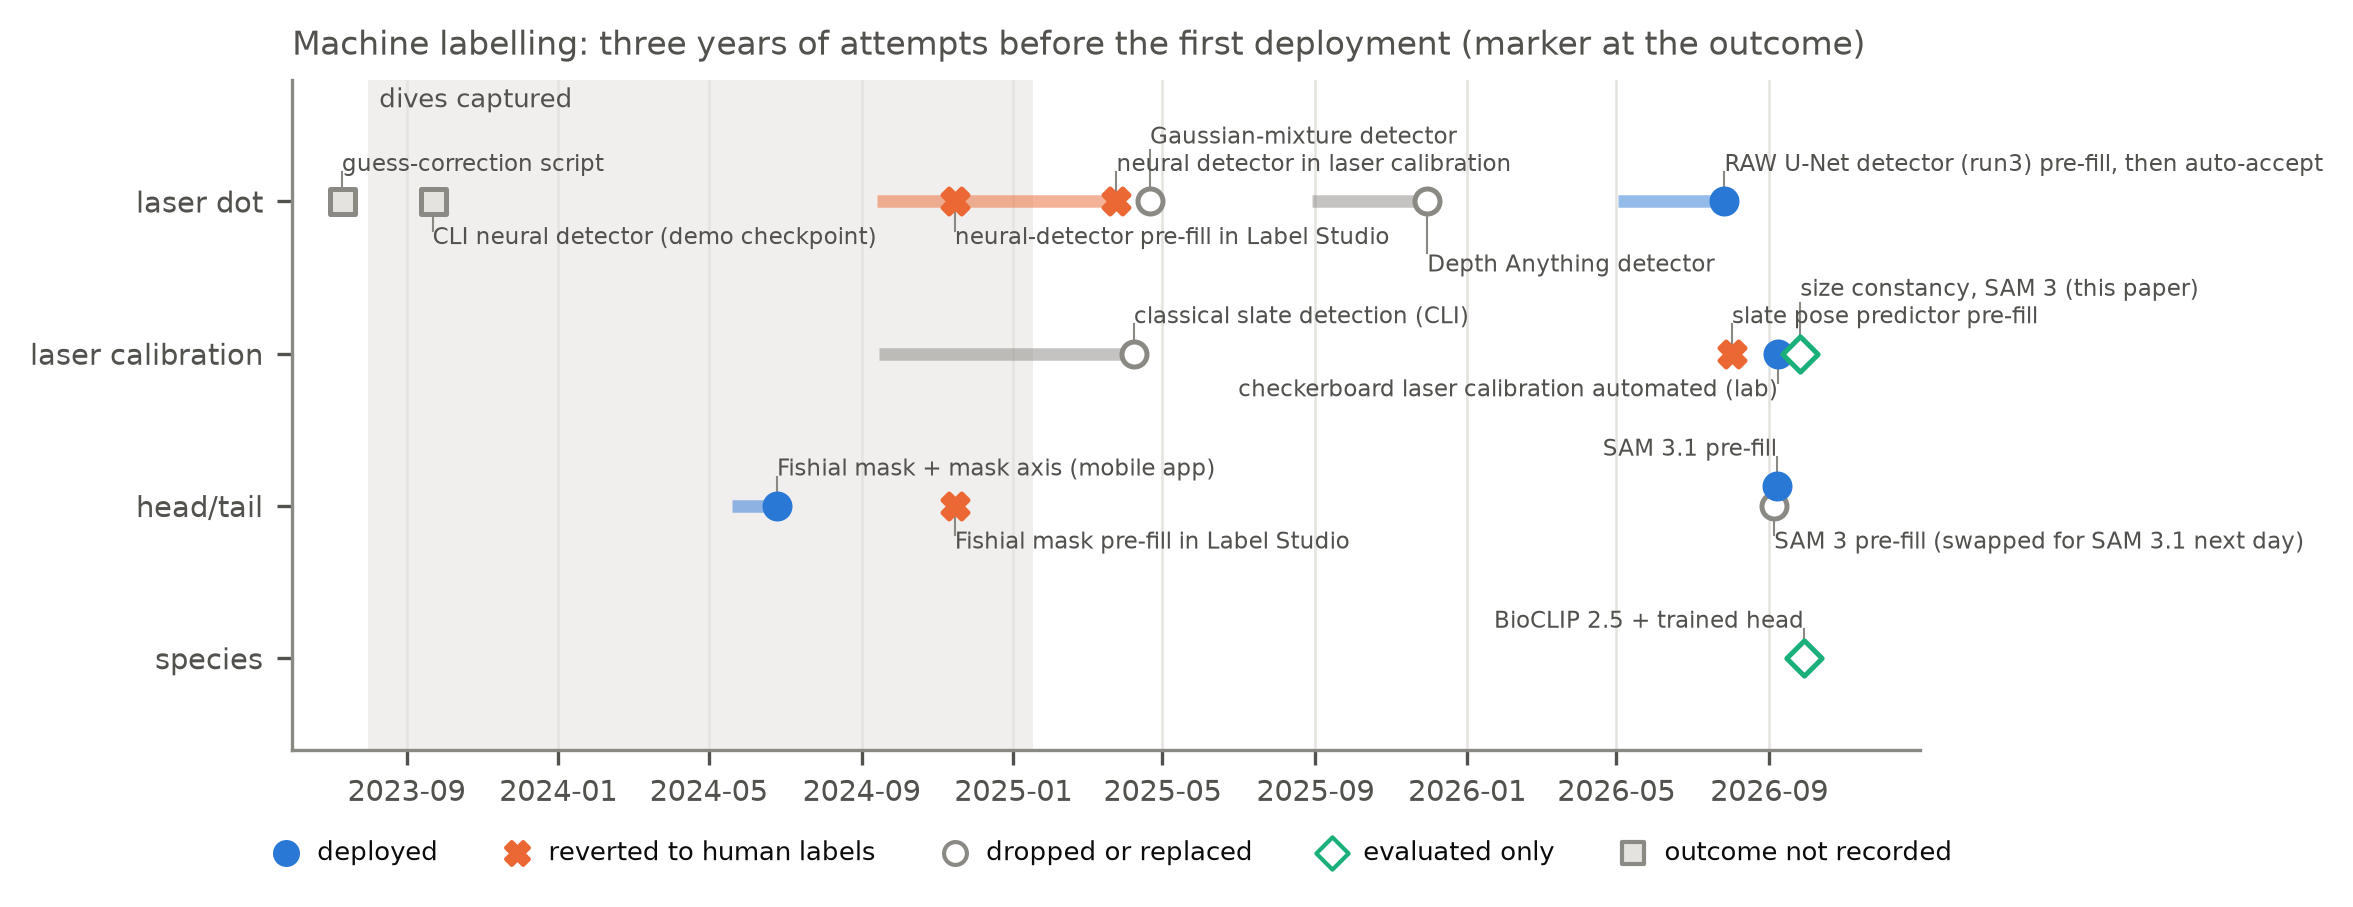
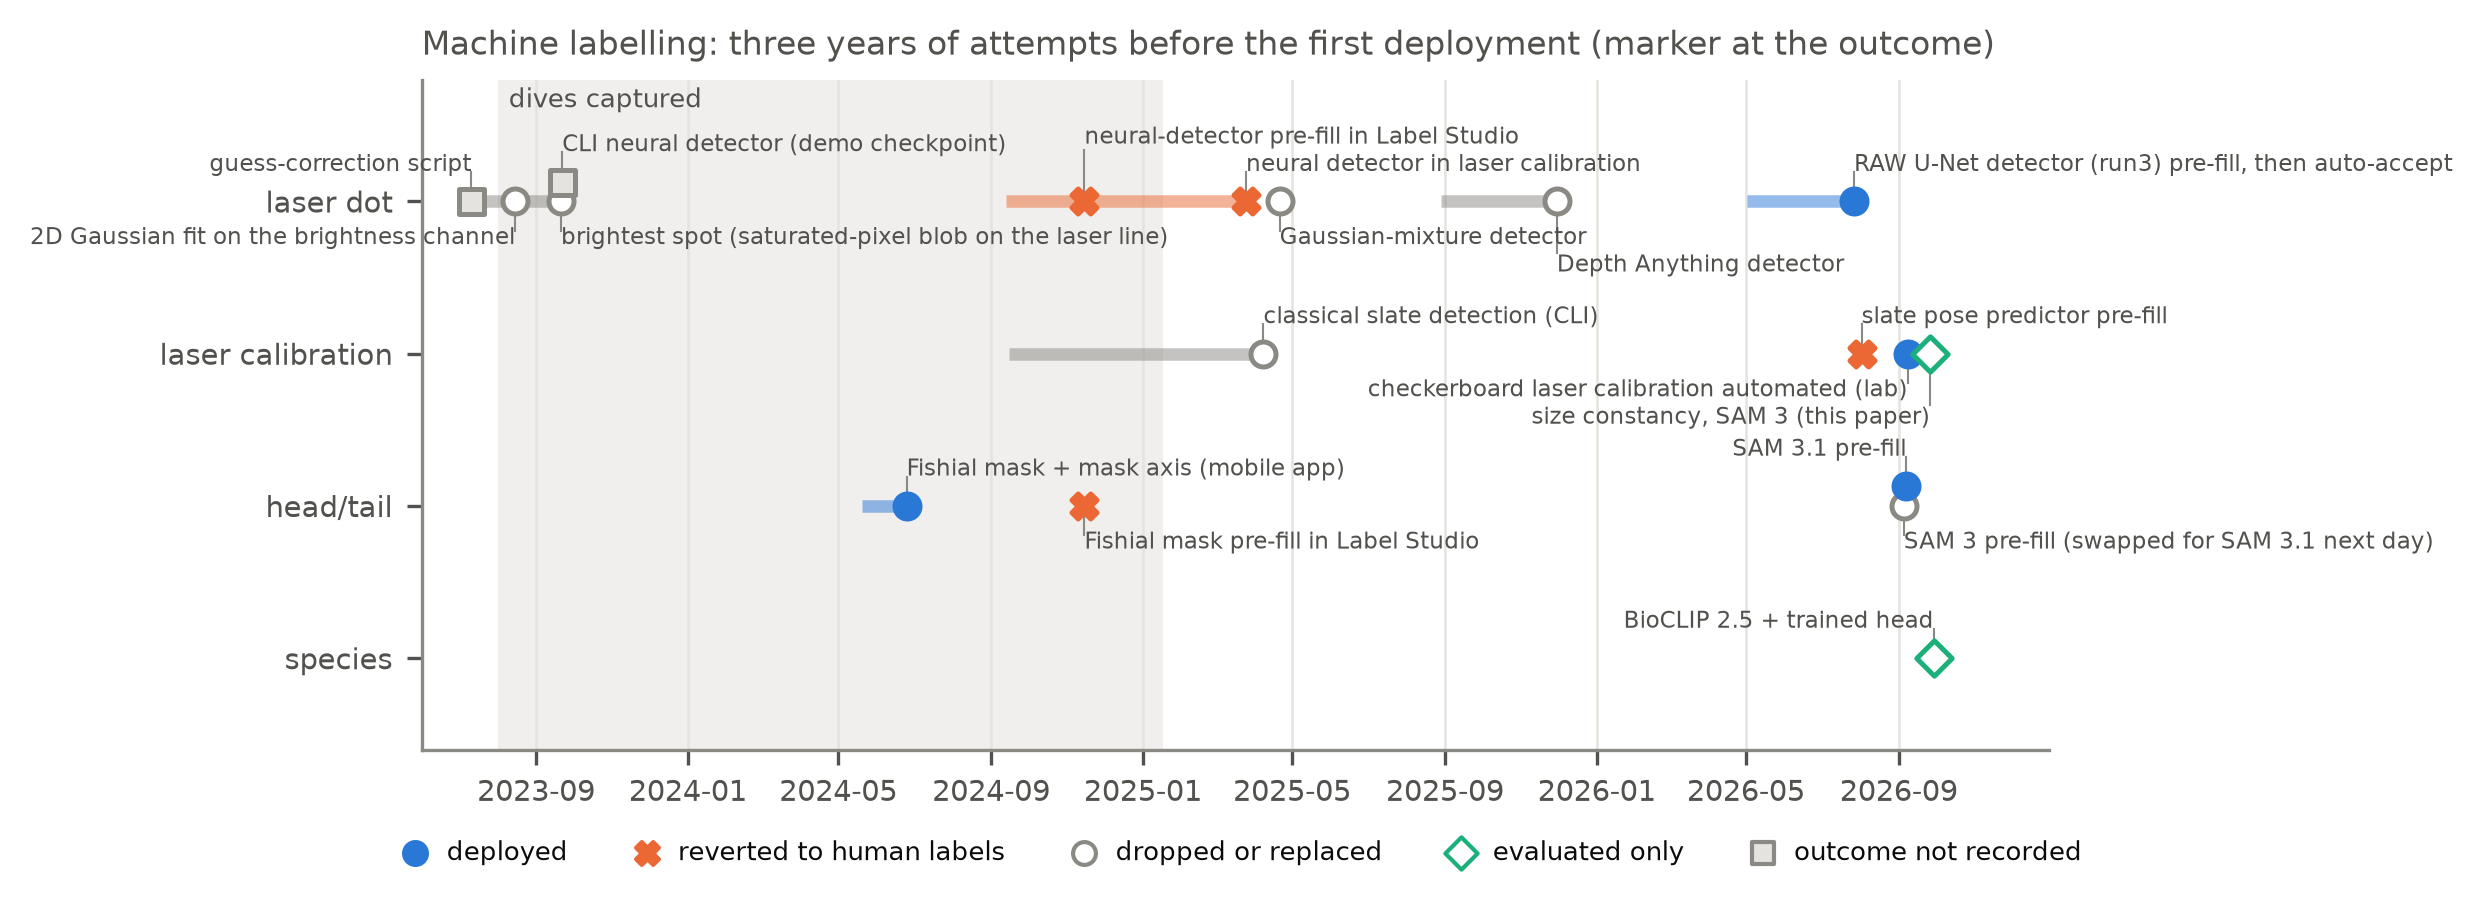
records: author answers on the demo checkpoint and the red-pointer leak
The 2023-09 demo checkpoint is NNLaserDetector. The leak forced a laser
replacement; the evaluation of replacements chose the green Shark laser.
claims.yaml attempt counts now follow the automation_attempts.yaml
definitions (8 attempts, 5 distinct methods before the deployed detector).

diff --git a/analysis/codesign/questions.md b/analysis/codesign/questions.md
@@ -33,10 +33,21 @@ Each item is the author's account. Where no commit or file backs it, the entry s
    red-speck false positives) and a 2D Gaussian fit on the brightness channel (failed: the dot is
    clipped, so its top is flat). Sequence of distinct methods: brightest spot; Gaussian fit; neural
    network (2023 CLI demo / 2024 NNLaserDetector); Gaussian-mixture colour detector (2025);
-   fine-tuned Depth Anything (2025); ResNet-34 U-Net on RAW input (deployed 2026-07). **Open:** whether
-   the 2023-09 CLI demo checkpoint is the same network as the 2024 NNLaserDetector (five failed
-   methods before a sixth if the same; six before a seventh if not). Code and dates for the two
-   classical methods: being searched (pyFishSenseDev, fishsense-lite-cli, older E4E repos).
+   fine-tuned Depth Anything (2025); ResNet-34 U-Net on RAW input (deployed 2026-07).
+   **Closed (code search, 2026-10-21):** the 2023-09 CLI demo checkpoint and the 2024 NNLaserDetector
+   are the same network: identical architecture and byte-identical weights (sha256 57b19f89...4f08,
+   133,975 bytes; fishsense-lite-cli@860c801 and the Hugging Face annotator114/laser-detector file). So
+   five methods failed before a sixth worked. Classical methods:
+   - **Brightest spot: code found.** pyFishSenseDev_bak@1113e62 (2023-07-13) `detect_laser.py`
+     keeps saturated pixels inside the laser-line mask; threshold lowered at dac85dc (2023-07-31);
+     superseded by the packaged NN at 3b81397 (2023-09-21). The failure reason has no record behind
+     it (author's account). Dive 279's red specks taken for the laser are recorded in
+     imwut_2026_fishsense_lite `fish_model_analysis/IN_PLANE_DRIFT.md:347-358` (ce372d6,
+     2026-10-18), but that record does not mention low light or gain, so the low-light link rests on
+     the author's account.
+   - **2D Gaussian fit: no code found** in any searched repo or org-wide search
+     (pyFishSenseDev_bak2 not searched). It and its failure reason rest on the author's account; its
+     date is unknown (placed at 2023-08 in `automation_attempts.yaml` by the author's ordering).
 
 ## N2. Pending files (author, 2026-10-21)
 
@@ -47,12 +58,11 @@ Each item is the author's account. Where no commit or file backs it, the entry s
 
 ## N3. Records audit follow-ups (2026-10-21)
 
-- **Demo checkpoint (2023-09-22):** is `demo/data/models/laser_detection.pth` the NNLaserDetector
-  model or a different one? It decides whether the laser-dot count is 3 or 4 distinct methods
-  before the deployed detector (automation_attempts.yaml header).
-- **Red pointers leaking vs the switch to green:** the timeline carries the leak as the trigger
-  (author account, 2026-10-19), but no record links them, and the green-laser item in section B
-  says not to cite the leak as a driver. Which stands?
+- **Demo checkpoint (2023-09-22): closed.** It is NNLaserDetector (author's recollection,
+  2026-10-21; confirmed by byte-identical weights, automation_attempts.yaml header).
+- **Red pointers leaking vs the switch to green: closed (author, 2026-10-21).** The leak required
+  replacing the laser; the team evaluated new lasers and switched to the green Shark laser. The leak
+  is the driver of the replacement, the evaluation chose green. No written record of the evaluation.
 
 ## N1. Toward image-only laser calibration (author preference, 2026-10-19: image measurements, not physical ones)
 
@@ -174,7 +184,9 @@ Sections A-D are what is still open.
    `track: lab | field`.
 2. **Green laser rationale: closed (author, 2026-10-07; reconfirmed 2026-10-19).** Green was chosen
    because it penetrates further in water and was expected to be easier for divers to see. The
-   trigger for reconsidering the colour was the red pointers leaking (see N3.1). This is the
+   trigger for reconsidering the colour was the red pointers leaking (see N3.1): the leak required
+   replacing the laser, and the evaluation of replacements chose the green Shark laser (author,
+   2026-10-21). This is the
    author's account; there is no 2024 record of the decision. The IMWUT sentence giving this
    rationale is not a contemporaneous source: it was added 2026-09-29
    (papers/fishsense-lite-imwut@25d7901) and removed 2026-10-19 (@364e022). This paper reports the

diff --git a/analysis/codesign/ai_use.md b/analysis/codesign/ai_use.md
@@ -102,6 +102,7 @@ Paths are relative to the repository root unless prefixed with a sibling reposit
 | 2026-10-19 | Laser line fitted to detector predictions instead of human dots: size constancy per pool session and stage ladder D3/F3 (`analysis/codesign/size_constancy_sam.py`, `e2e_measurement/score.py`) | analysis | assistant | this commit (analysis: detector-fitted laser line...) |
 | 2026-10-20 | Introduction numbers checked with 95% intervals: canonical image count (`sql/extract_image_counts.sql`), pre-fill acceptance, size constancy per session, green-red misses, clipped dots, click noise, stage ladder and its relation to IMWUT's accuracy cohort; detector and labeller preprocessing compared from code (`analysis/codesign/intro_numbers.py` -> results/intro_numbers.csv; claims.yaml) | analysis | assistant | this commit (analysis: introduction numbers...) |
 | 2026-10-21 | Records audit applied to the co-design records: slate pose predictor retirement dated and sourced (fishsense-lite@65582b6e, @e32bd9bc), NN detector removal split into checkerboard and field, no revert commit for the 2024-11 pre-fill, green-laser rationale relabelled as author account, attempt definitions, SlateDetector start date; figures rebuilt (audit by the author's read-only session; edits checked against the commits by the assistant) | data | author + assistant | this commit (records: audit corrections...) |
+| 2026-10-21 | Author answers recorded: demo checkpoint is NNLaserDetector; red-pointer leak forced a replacement and the evaluation chose the green Shark laser; claims.yaml attempt counts aligned with the automation_attempts.yaml definitions (8 attempts, 5 distinct methods); figures rebuilt | data | author + assistant | this commit (records: author answers...) |
 
 Work in sibling repositories that the paper relies on is AI-assisted too, and needs its own entries before submission:
 - slate detector (2026-10-03_slate_detector);
